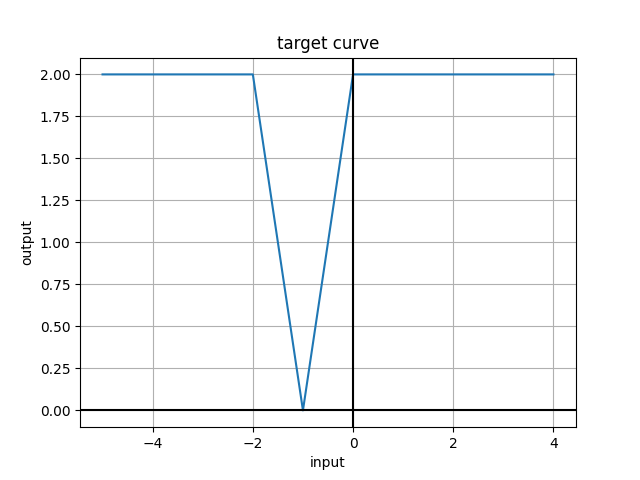
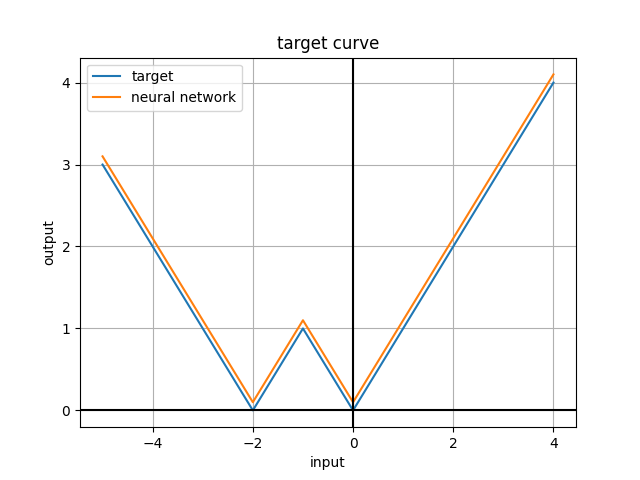
finally fixed this exercise

diff --git a/lab3/part2/exercise1.py b/lab3/part2/exercise1.py
@@ -4,11 +4,23 @@ def relu(x):
     return max(x, 0)
 
 def target(x):
-    return min(abs(x+2), abs(x))
+    return abs(abs(x + 1) - 1)
+
+def neural_network(x):
+    h1 = relu(-2*x - 4)
+    h2 = relu(-2*x - 2)
+    h3 = relu(-x)
+    h4 = relu(x)
+    return relu(h1 - h2 + h3 + h4)
 
 if __name__ == '__main__':
     plt.figure()
-    plt.plot([x for x in range(-5, 5)], [target(x) for x in range(-5, 5)])
+    epsilon = 0.1
+    plt.plot([x for x in range(-5, 5)], 
+             [target(x) for x in range(-5, 5)])
+    plt.plot([x for x in range(-5, 5)], 
+             [neural_network(x) + epsilon for x in range(-5, 5)])
+    plt.legend(["target", "neural network"])
     plt.axhline(y=0, color='k')
     plt.axvline(x=0, color='k')
     plt.title("target curve")
